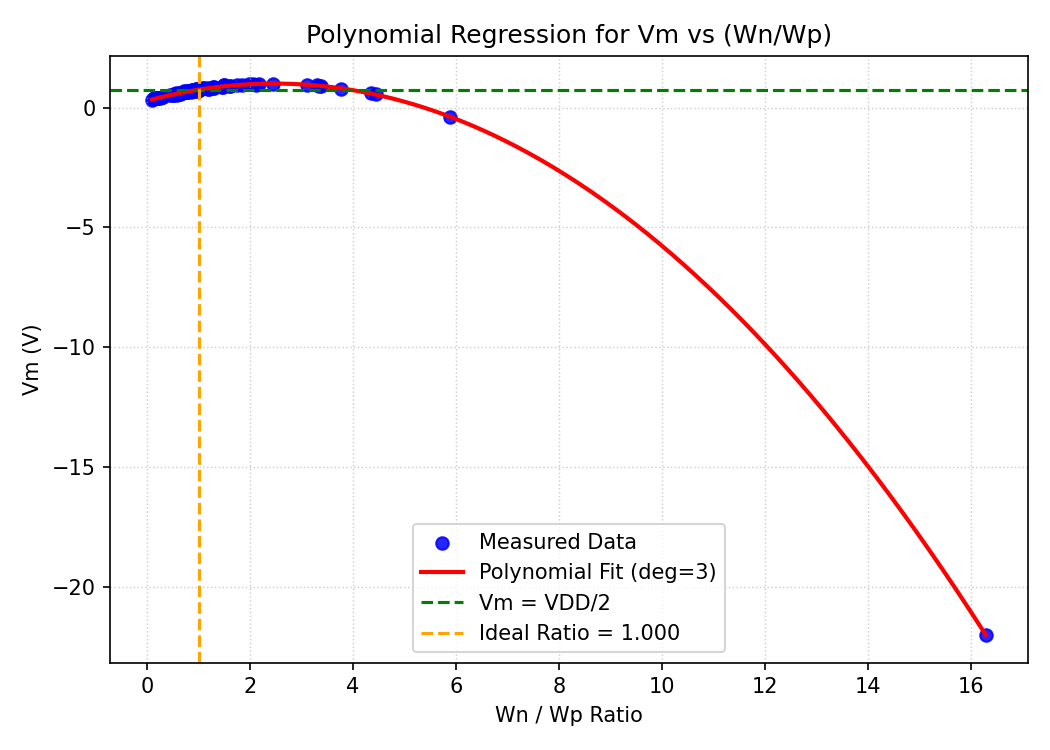
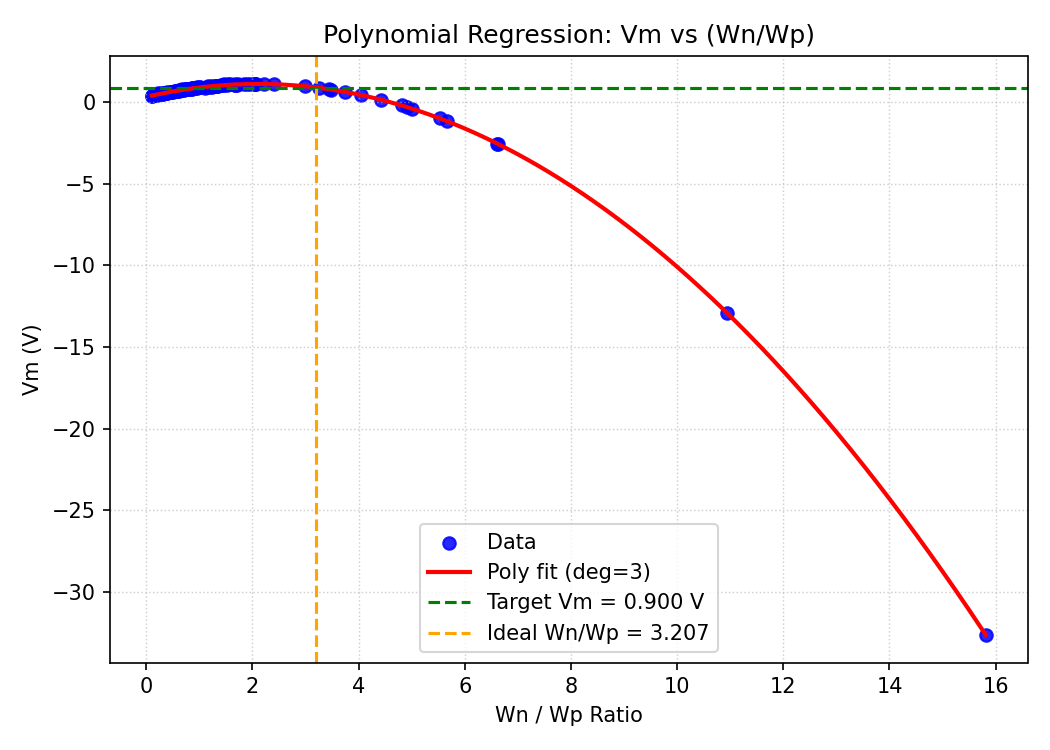
feat: Add script to find Wn/Wp ratio for target Vm (#4)

diff --git a/Find_WpWn_Ratio_for_Vm09.py b/Find_WpWn_Ratio_for_Vm09.py
@@ -1,0 +1,236 @@
+from __future__ import annotations
+
+import argparse
+import json
+import os
+from dataclasses import dataclass
+from typing import Any, Dict, Tuple
+
+import numpy as np
+import pandas as pd
+
+# Headless-safe plotting; only used if --save-plot is provided
+import matplotlib
+matplotlib.use("Agg")
+import matplotlib.pyplot as plt
+
+from sklearn.linear_model import LinearRegression
+from sklearn.metrics import mean_squared_error
+from sklearn.preprocessing import PolynomialFeatures
+
+
+DEFAULT_INPUT_PATH = r"C:\Users\Aaditya Rajput\Downloads\Inv_WnWpVm_values.xlsx"
+DEFAULT_TARGET_VM = 0.9
+DEFAULT_DEGREE = 3
+
+
+@dataclass
+class FitArtifacts:
+    model: LinearRegression
+    poly: PolynomialFeatures
+
+
+def _compute_rmse(y_true: np.ndarray, y_pred: np.ndarray) -> float:
+    try:
+        # scikit-learn >= 1.4
+        from sklearn.metrics import root_mean_squared_error as rmse_fn  # type: ignore
+        return float(rmse_fn(y_true, y_pred))
+    except Exception:
+        return float(np.sqrt(mean_squared_error(y_true, y_pred)))
+
+
+def _rename_columns_for_convenience(df: pd.DataFrame) -> pd.DataFrame:
+    df = df.copy()
+    lower_to_original = {c.lower(): c for c in df.columns}
+    rename_pairs = [
+        ("wn (µm)", "Wn"), ("wn (um)", "Wn"), ("wn", "Wn"),
+        ("wp (µm)", "Wp"), ("wp (um)", "Wp"), ("wp", "Wp"),
+        ("vm (v)", "Vm"), ("vm", "Vm"),
+    ]
+    rename_map: Dict[str, str] = {}
+    for src_lower, dst in rename_pairs:
+        if src_lower in lower_to_original:
+            rename_map[lower_to_original[src_lower]] = dst
+    if rename_map:
+        df = df.rename(columns=rename_map)
+    return df
+
+
+def load_dataframe(input_path: str) -> pd.DataFrame:
+    if not os.path.exists(input_path):
+        raise FileNotFoundError(f"Input file not found: {input_path}")
+
+    _, ext = os.path.splitext(input_path.lower())
+    if ext in (".xlsx", ".xlsm", ".xls"):
+        df = pd.read_excel(input_path)
+    elif ext == ".csv":
+        df = pd.read_csv(input_path)
+    else:
+        raise ValueError("Unsupported file extension. Use .xlsx or .csv")
+
+    df = _rename_columns_for_convenience(df)
+
+    required = {"Wn", "Wp", "Vm"}
+    if not required.issubset(df.columns):
+        raise ValueError(
+            "Input data must contain columns 'Wn', 'Wp', 'Vm'. "
+            f"Found: {list(df.columns)}"
+        )
+
+    # Clean and derive ratio
+    df = df.replace([np.inf, -np.inf], np.nan)
+    df = df.dropna(subset=["Wn", "Wp", "Vm"]).copy()
+    df = df[df["Wp"] != 0]
+    if df.empty:
+        raise ValueError("No valid rows after cleaning input data.")
+
+    df["Ratio_WnWp"] = df["Wn"] / df["Wp"]
+    return df
+
+
+def generate_sample_dataframe(num_rows: int = 100, seed: int = 42) -> pd.DataFrame:
+    rng = np.random.default_rng(seed)
+    wp = rng.uniform(0.5, 10.0, size=num_rows)
+    wn = rng.uniform(0.5, 10.0, size=num_rows)
+    ratio = wn / wp
+    # Nonlinear mapping around ~0.9 V
+    vm = 0.9 + 0.4 * (ratio - 1.0) - 0.18 * (ratio - 1.0) ** 2
+    vm += rng.normal(scale=0.02, size=num_rows)
+
+    df = pd.DataFrame({"Wn": wn, "Wp": wp, "Vm": vm})
+    df["Ratio_WnWp"] = df["Wn"] / df["Wp"]
+    return df
+
+
+def fit_polynomial(df: pd.DataFrame, degree: int) -> Tuple[FitArtifacts, float]:
+    x = df[["Ratio_WnWp"]].to_numpy()
+    y = df["Vm"].to_numpy()
+
+    poly = PolynomialFeatures(degree=degree, include_bias=False)
+    x_poly = poly.fit_transform(x)
+
+    model = LinearRegression()
+    model.fit(x_poly, y)
+
+    y_pred = model.predict(x_poly)
+    rmse = _compute_rmse(y, y_pred)
+
+    return FitArtifacts(model=model, poly=poly), rmse
+
+
+def find_ratio_for_target_vm(
+    artifacts: FitArtifacts,
+    df: pd.DataFrame,
+    target_vm: float,
+    num_points: int = 1000,
+) -> Tuple[float, float, np.ndarray, np.ndarray]:
+    ratio_min = float(df["Ratio_WnWp"].min())
+    ratio_max = float(df["Ratio_WnWp"].max())
+    ratio_range = np.linspace(ratio_min, ratio_max, num_points)
+
+    r_poly = artifacts.poly.transform(ratio_range.reshape(-1, 1))
+    vm_pred = artifacts.model.predict(r_poly)
+
+    best_idx = int(np.argmin(np.abs(vm_pred - target_vm)))
+    best_ratio_wn_wp = float(ratio_range[best_idx])
+
+    return best_ratio_wn_wp, float(vm_pred[best_idx]), ratio_range, vm_pred
+
+
+def maybe_save_plot(
+    df: pd.DataFrame,
+    ratio_range: np.ndarray,
+    vm_pred: np.ndarray,
+    best_ratio: float,
+    target_vm: float,
+    save_path: str | None,
+    degree: int,
+) -> None:
+    if not save_path:
+        return
+    os.makedirs(os.path.dirname(save_path) or ".", exist_ok=True)
+
+    plt.figure(figsize=(7, 5))
+    plt.scatter(df["Ratio_WnWp"], df["Vm"], color="blue", alpha=0.85, label="Data")
+    plt.plot(ratio_range, vm_pred, color="red", linewidth=2.0, label=f"Poly fit (deg={degree})")
+    plt.axhline(target_vm, color="green", linestyle="--", label=f"Target Vm = {target_vm:.3f} V")
+    plt.axvline(best_ratio, color="orange", linestyle="--", label=f"Ideal Wn/Wp = {best_ratio:.3f}")
+    plt.xlabel("Wn / Wp Ratio")
+    plt.ylabel("Vm (V)")
+    plt.title("Polynomial Regression: Vm vs (Wn/Wp)")
+    plt.legend()
+    plt.grid(True, linestyle=":", linewidth=0.7, alpha=0.6)
+    plt.tight_layout()
+    plt.savefig(save_path, dpi=150)
+    plt.close()
+
+
+def parse_args() -> argparse.Namespace:
+    p = argparse.ArgumentParser(
+        description="Find ideal Wn/Wp and Wp/Wn ratios for a target Vm using polynomial regression.",
+    )
+    p.add_argument("-i", "--input", default=DEFAULT_INPUT_PATH, help="Path to input .xlsx/.csv with columns Wn, Wp, Vm")
+    p.add_argument("-d", "--degree", type=int, default=DEFAULT_DEGREE, help="Polynomial degree (default: 3)")
+    p.add_argument("--target-vm", type=float, default=DEFAULT_TARGET_VM, help="Target Vm in volts (default: 0.9)")
+    p.add_argument("--save-plot", default=None, help="Optional path to save plot image")
+    p.add_argument("--output-json", default=None, help="Optional path to write summary JSON")
+    p.add_argument("--generate-sample", action="store_true", help="Use synthetic data instead of reading a file")
+    p.add_argument("--seed", type=int, default=42, help="Random seed for synthetic data (when --generate-sample)")
+    return p.parse_args()
+
+
+def main() -> int:
+    args = parse_args()
+
+    # Load data
+    if args.generate_sample:
+        df = generate_sample_dataframe(seed=args.seed)
+        input_desc = "synthetic sample"
+    else:
+        df = load_dataframe(args.input)
+        input_desc = args.input
+
+    # Fit model
+    artifacts, rmse = fit_polynomial(df=df, degree=args.degree)
+
+    # Search for best ratio achieving target Vm
+    best_ratio_wn_wp, vm_at_best, ratio_range, vm_pred = find_ratio_for_target_vm(
+        artifacts=artifacts, df=df, target_vm=args.target_vm
+    )
+    best_ratio_wp_wn = float("inf") if best_ratio_wn_wp == 0 else (1.0 / best_ratio_wn_wp)
+
+    # Report
+    summary: Dict[str, Any] = {
+        "data_source": input_desc,
+        "degree": int(args.degree),
+        "target_vm": float(args.target_vm),
+        "ideal_ratio_wn_wp": float(best_ratio_wn_wp),
+        "ideal_ratio_wp_wn": float(best_ratio_wp_wn),
+        "predicted_vm_at_ideal": float(vm_at_best),
+        "rmse": float(rmse),
+    }
+
+    print(json.dumps(summary, indent=2))
+
+    # Optional outputs
+    if args.output_json:
+        os.makedirs(os.path.dirname(args.output_json) or ".", exist_ok=True)
+        with open(args.output_json, "w", encoding="utf-8") as f:
+            json.dump(summary, f, ensure_ascii=False, indent=2)
+
+    if args.save_plot:
+        maybe_save_plot(
+            df=df,
+            ratio_range=ratio_range,
+            vm_pred=vm_pred,
+            best_ratio=best_ratio_wn_wp,
+            target_vm=args.target_vm,
+            save_path=args.save_plot,
+            degree=args.degree,
+        )
+
+    return 0
+
+
+if __name__ == "__main__":
+    raise SystemExit(main())
